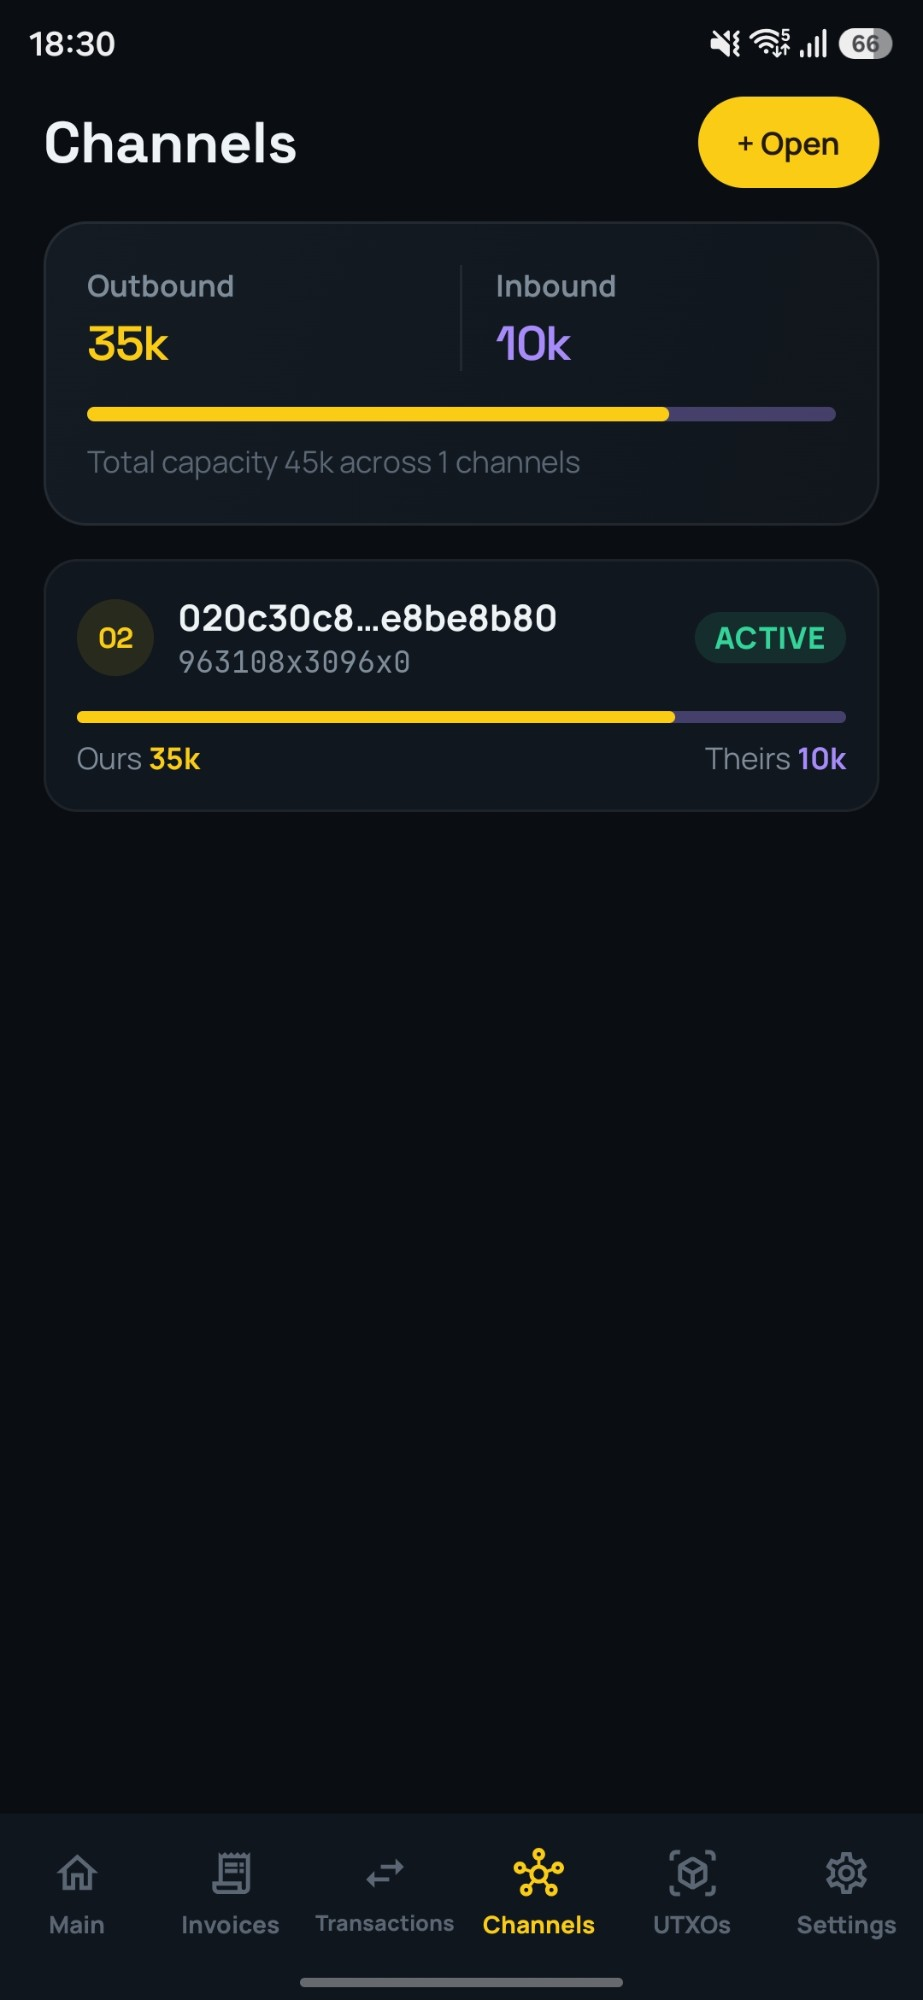
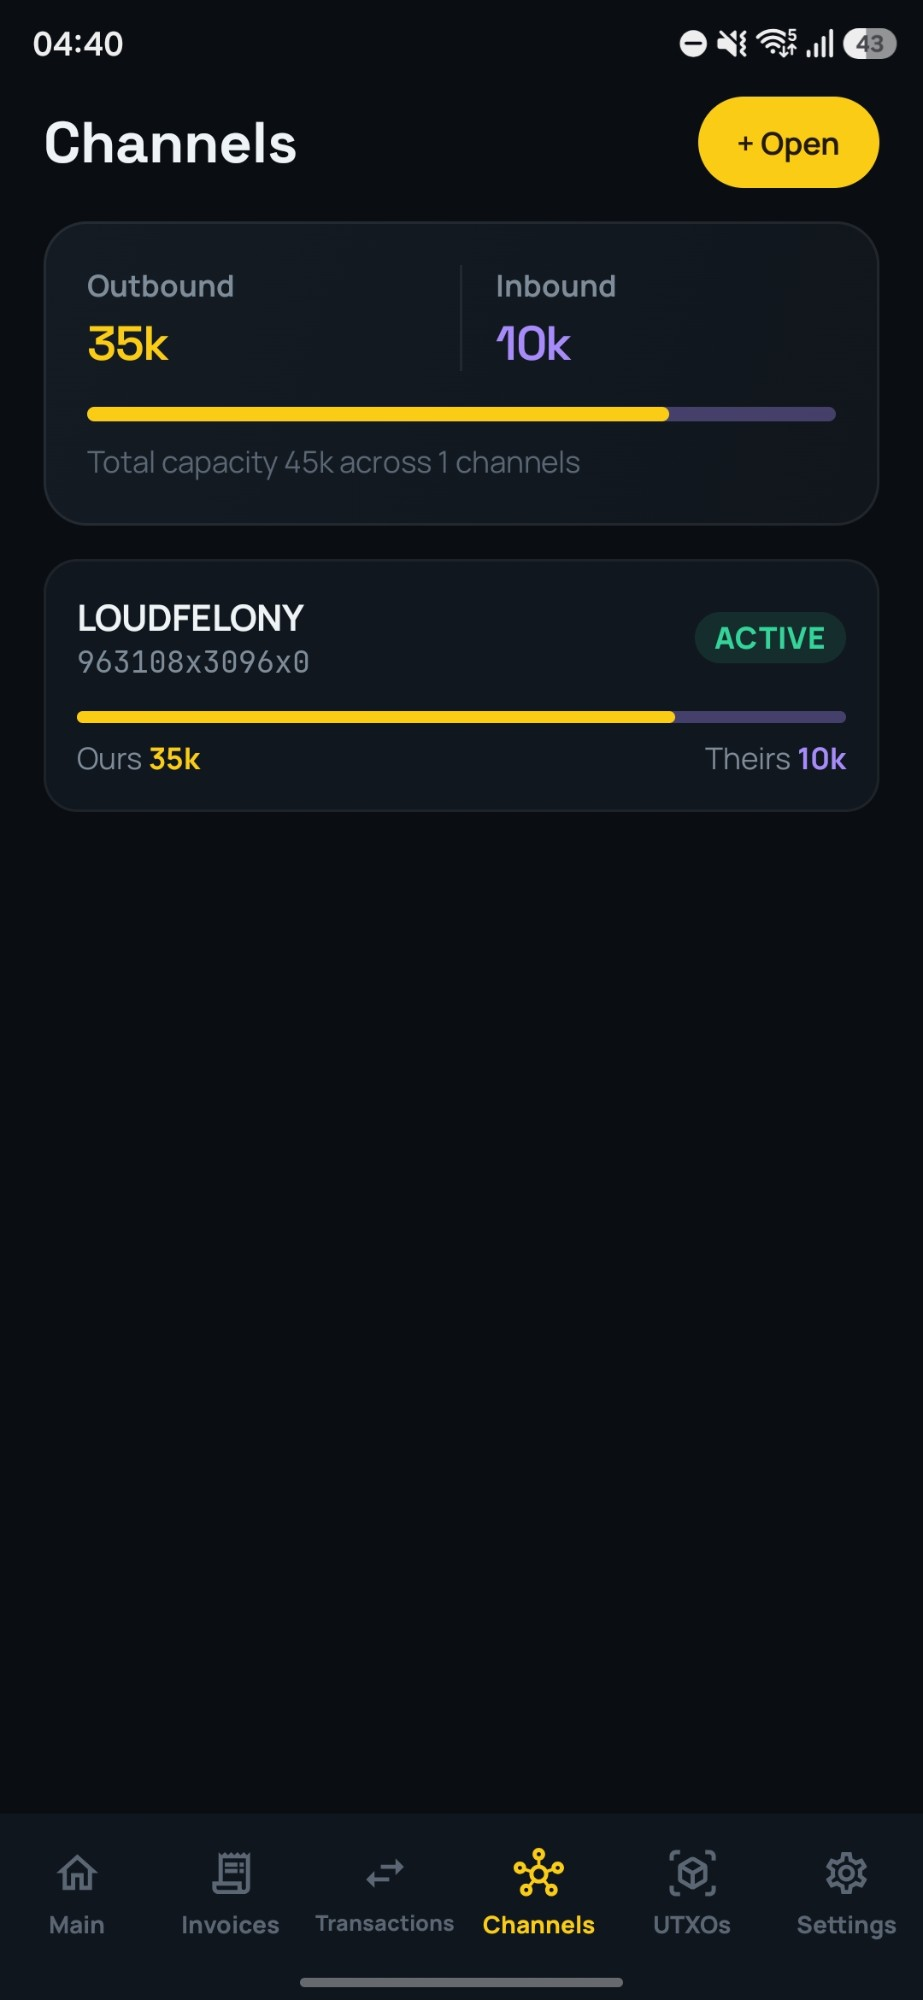
Fixed: amount precision in payments, updated readme screens

Changed region(s): [[0.091, 0.279, 0.6067, 0.341], [0.7281, 0.0, 0.9707, 0.031], [0.0303, 0.0, 0.1517, 0.031]]

diff --git a/app/src/main/java/app/light/wallet/ui/sheets/SheetHost.kt b/app/src/main/java/app/light/wallet/ui/sheets/SheetHost.kt
@@ -62,7 +62,9 @@ import app.light.wallet.ui.DisplayUnit
 import app.light.wallet.ui.copyToClipboard
 import app.light.wallet.ui.expiresIn
 import app.light.wallet.ui.formatAmount
+import app.light.wallet.ui.filterAmountInput
 import app.light.wallet.ui.formatAmountFull
+import app.light.wallet.ui.parseAmountToMsat
 import app.light.wallet.ui.formatUnixTime
 import app.light.wallet.ui.qrBitmap
 import app.light.wallet.ui.shortId
@@ -192,7 +194,7 @@ private fun DesignField(
         placeholder = { Text(placeholder, color = Tokens.Faint) },
         minLines = lines,
         maxLines = if (lines > 1) lines + 1 else 1,
-        keyboardOptions = if (numeric) KeyboardOptions(keyboardType = KeyboardType.Number) else KeyboardOptions.Default,
+        keyboardOptions = if (numeric) KeyboardOptions(keyboardType = KeyboardType.Decimal) else KeyboardOptions.Default,
         textStyle = when {
             big -> TextStyle(fontFamily = SpaceGrotesk, fontWeight = FontWeight.SemiBold, fontSize = 20.sp, color = Tokens.Text)
             mono -> TextStyle(fontFamily = MonoFont, fontSize = 12.sp, color = Tokens.TextMid, lineHeight = 18.sp)
@@ -302,8 +304,8 @@ private fun SendChainSheet(repository: WalletRepository, onClose: () -> Unit) {
     }
     FieldLabel("Destination address")
     DesignField(addr, { addr = it }, "bc1q…", mono = true)
-    FieldLabel("Amount (sats)", topPadding = 12)
-    DesignField(amount, { amount = it.filter { c -> c.isDigit() }; sendAll = false }, "0", numeric = true, big = true)
+    FieldLabel("Amount (${unit.label})", topPadding = 12)
+    DesignField(amount, { amount = filterAmountInput(it, unit); sendAll = false }, "0", numeric = true, big = true)
     run {
         val funds by repository.funds.collectAsState()
         val available = funds?.let { it.onchainConfirmedMsat / 1000uL } ?: 0uL
@@ -317,7 +319,7 @@ private fun SendChainSheet(repository: WalletRepository, onClose: () -> Unit) {
                 "Send max",
                 style = MaterialTheme.typography.labelMedium.copy(fontSize = 11.5.sp),
                 color = Tokens.Accent,
-                modifier = Modifier.noRipple { sendAll = true; amount = available.toString() },
+                modifier = Modifier.noRipple { sendAll = true; amount = formatAmount(available * 1000uL, unit).replace(" ", "") },
             )
         }
     }
@@ -344,7 +346,7 @@ private fun SendChainSheet(repository: WalletRepository, onClose: () -> Unit) {
     PillButton(
         if (busy) "Broadcasting…" else "Send on-chain",
         modifier = Modifier.fillMaxWidth().padding(top = 18.dp),
-        enabled = !busy && addr.isNotBlank() && amount.toULongOrNull() != null,
+        enabled = !busy && addr.isNotBlank() && parseAmountToMsat(amount, unit) != null,
     ) {
         busy = true; error = null
         scope.launch {
@@ -352,7 +354,7 @@ private fun SendChainSheet(repository: WalletRepository, onClose: () -> Unit) {
                 repository.requireNode().withdraw(
                     WithdrawParams(
                         destination = addr.trim(),
-                        amountSat = if (sendAll) 0uL else amount.toULong(),
+                        amountSat = if (sendAll) 0uL else (parseAmountToMsat(amount, unit) ?: 0uL) / 1000uL,
                         all = sendAll, minconf = null, feerate = feerate,
                     ),
                 )
@@ -366,6 +368,7 @@ private fun SendChainSheet(repository: WalletRepository, onClose: () -> Unit) {
 
 @Composable
 private fun NewInvoiceSheet(repository: WalletRepository, onOpenSheet: (WalletSheet) -> Unit, onClose: () -> Unit) {
+    val unit = DisplayUnit.from(repository.displayUnit)
     val scope = rememberCoroutineScope()
     var anyAmount by remember { mutableStateOf(false) }
     var amount by remember { mutableStateOf("") }
@@ -387,7 +390,7 @@ private fun NewInvoiceSheet(repository: WalletRepository, onOpenSheet: (WalletSh
     SheetTitle("Create invoice", onClose)
     Row(verticalAlignment = Alignment.CenterVertically) {
         Text(
-            "Amount (sats)",
+            "Amount (${unit.label})",
             style = MaterialTheme.typography.bodySmall.copy(fontSize = 11.5.sp, fontWeight = FontWeight.Bold),
             color = Tokens.Dim, modifier = Modifier.weight(1f),
         )
@@ -406,7 +409,15 @@ private fun NewInvoiceSheet(repository: WalletRepository, onOpenSheet: (WalletSh
     }
     if (!anyAmount) {
         Box(Modifier.padding(top = 8.dp)) {
-            DesignField(amount, { amount = it.filter { c -> c.isDigit() } }, "25 000", numeric = true, big = true)
+            DesignField(
+                amount, { amount = filterAmountInput(it, unit) },
+                when (unit) {
+                    DisplayUnit.SAT -> "25 000"
+                    DisplayUnit.MSAT -> "25 000 000"
+                    DisplayUnit.BTC -> "0.00025"
+                },
+                numeric = true, big = true,
+            )
         }
     }
     FieldLabel("Description", topPadding = 12)
@@ -514,7 +525,7 @@ private fun NewInvoiceSheet(repository: WalletRepository, onOpenSheet: (WalletSh
     PillButton(
         if (busy) "Creating…" else "Create invoice",
         modifier = Modifier.fillMaxWidth().padding(top = 18.dp),
-        enabled = !busy && (anyAmount || amount.toULongOrNull() != null),
+        enabled = !busy && (anyAmount || parseAmountToMsat(amount, unit) != null),
     ) {
         busy = true; error = null
         scope.launch {
@@ -523,7 +534,7 @@ private fun NewInvoiceSheet(repository: WalletRepository, onOpenSheet: (WalletSh
             runCatching {
                 repository.createInvoice(
                     CreateInvoiceParams(
-                        amountMsat = if (anyAmount) null else amount.toULong() * 1000uL,
+                        amountMsat = if (anyAmount) null else parseAmountToMsat(amount, unit),
                         description = desc,
                         label = customLabel.ifBlank { "lightapp-${System.currentTimeMillis()}" },
                         expiry = if (expiry == 0uL) null else expiry,
@@ -642,8 +653,8 @@ private fun PaySheet(repository: WalletRepository, prefill: String, onPaymentSta
             DecRow("Expires", expiresIn(d.createdAt?.let { c -> d.expiry?.let { e -> c + e } }), orange = true)
         }
         if (d.amountMsat == null) {
-            FieldLabel("Amount to pay (sats)", topPadding = 12)
-            DesignField(amountOverride, { amountOverride = it.filter { c -> c.isDigit() } }, "0", numeric = true, big = true)
+            FieldLabel("Amount to pay (${unit.label})", topPadding = 12)
+            DesignField(amountOverride, { amountOverride = filterAmountInput(it, unit) }, "0", numeric = true, big = true)
         }
     }
 
@@ -656,8 +667,8 @@ private fun PaySheet(repository: WalletRepository, prefill: String, onPaymentSta
     if (showAdv) {
         Row(modifier = Modifier.padding(top = 8.dp), horizontalArrangement = Arrangement.spacedBy(10.dp)) {
             Column(modifier = Modifier.weight(1f), verticalArrangement = Arrangement.spacedBy(6.dp)) {
-                Text("maxfee (sats)", style = MaterialTheme.typography.bodySmall.copy(fontSize = 10.5.sp, fontWeight = FontWeight.Bold), color = Tokens.Faint)
-                DesignField(maxFee, { maxFee = it.filter { c -> c.isDigit() } }, "auto", numeric = true)
+                Text("maxfee (${unit.label})", style = MaterialTheme.typography.bodySmall.copy(fontSize = 10.5.sp, fontWeight = FontWeight.Bold), color = Tokens.Faint)
+                DesignField(maxFee, { maxFee = filterAmountInput(it, unit) }, "auto", numeric = true)
             }
             Column(modifier = Modifier.weight(1f), verticalArrangement = Arrangement.spacedBy(6.dp)) {
                 Text("retry_for (s)", style = MaterialTheme.typography.bodySmall.copy(fontSize = 10.5.sp, fontWeight = FontWeight.Bold), color = Tokens.Faint)
@@ -696,8 +707,8 @@ private fun PaySheet(repository: WalletRepository, prefill: String, onPaymentSta
     }
     error?.let { Text(it, color = Tokens.Red, style = MaterialTheme.typography.bodySmall, modifier = Modifier.padding(top = 10.dp)) }
 
-    val amountKnown = decoded?.amountMsat != null || amountOverride.toULongOrNull() != null
-    val payMsat = decoded?.amountMsat ?: amountOverride.toULongOrNull()?.times(1000uL)
+    val amountKnown = decoded?.amountMsat != null || parseAmountToMsat(amountOverride, unit) != null
+    val payMsat = decoded?.amountMsat ?: parseAmountToMsat(amountOverride, unit)
     // Never pay until decode of the *current* invoice text has finished.
     val payEnabled = inv.isNotBlank() && decoded != null && !decoding && amountKnown
     Row(
@@ -715,8 +726,8 @@ private fun PaySheet(repository: WalletRepository, prefill: String, onPaymentSta
                     PayCommand.Xpay(
                         XpayParams(
                             invstring = inv.trim(),
-                            amountMsat = if (decoded?.amountMsat == null) amountOverride.toULongOrNull()?.times(1000uL) else null,
-                            maxfeeMsat = maxFee.toULongOrNull()?.times(1000uL),
+                            amountMsat = if (decoded?.amountMsat == null) parseAmountToMsat(amountOverride, unit) else null,
+                            maxfeeMsat = parseAmountToMsat(maxFee, unit),
                             layers = layers.split(",").map { it.trim() }.filter { it.isNotEmpty() },
                             retryFor = retryFor.toUIntOrNull(),
                             partialMsat = partial.toULongOrNull(),
@@ -766,6 +777,7 @@ private fun DecRow(k: String, v: String, mono: Boolean = false, orange: Boolean 
 
 @Composable
 private fun OpenChannelSheet(repository: WalletRepository, onClose: () -> Unit) {
+    val unit = DisplayUnit.from(repository.displayUnit)
     val scope = rememberCoroutineScope()
     var peer by remember { mutableStateOf("") }
     var amount by remember { mutableStateOf("") }
@@ -787,8 +799,16 @@ private fun OpenChannelSheet(repository: WalletRepository, onClose: () -> Unit) 
     DesignField(peer, { peer = it }, "nodeid@host:port", mono = true, lines = 2)
     Row(modifier = Modifier.padding(top = 12.dp), horizontalArrangement = Arrangement.spacedBy(10.dp)) {
         Column(modifier = Modifier.weight(1f), verticalArrangement = Arrangement.spacedBy(6.dp)) {
-            Text("Amount (sats)", style = MaterialTheme.typography.bodySmall.copy(fontSize = 11.5.sp, fontWeight = FontWeight.Bold), color = Tokens.Dim)
-            DesignField(amount, { amount = it.filter { c -> c.isDigit() } }, "1 000 000", numeric = true, big = true)
+            Text("Amount (${unit.label})", style = MaterialTheme.typography.bodySmall.copy(fontSize = 11.5.sp, fontWeight = FontWeight.Bold), color = Tokens.Dim)
+            DesignField(
+                amount, { amount = filterAmountInput(it, unit) },
+                when (unit) {
+                    DisplayUnit.SAT -> "1 000 000"
+                    DisplayUnit.MSAT -> "1 000 000 000"
+                    DisplayUnit.BTC -> "0.01"
+                },
+                numeric = true, big = true,
+            )
         }
         Column(modifier = Modifier.width(110.dp), verticalArrangement = Arrangement.spacedBy(6.dp)) {
             Text("Min conf", style = MaterialTheme.typography.bodySmall.copy(fontSize = 11.5.sp, fontWeight = FontWeight.Bold), color = Tokens.Dim)
@@ -810,7 +830,7 @@ private fun OpenChannelSheet(repository: WalletRepository, onClose: () -> Unit) 
     PillButton(
         if (busy) "Opening…" else "Connect & fund channel",
         modifier = Modifier.fillMaxWidth().padding(top = 18.dp),
-        enabled = !busy && peer.isNotBlank() && amount.toULongOrNull() != null,
+        enabled = !busy && peer.isNotBlank() && parseAmountToMsat(amount, unit) != null,
     ) {
         busy = true; error = null
         scope.launch {
@@ -825,7 +845,7 @@ private fun OpenChannelSheet(repository: WalletRepository, onClose: () -> Unit) 
                 } else peer.trim()
                 node.openChannel(
                     OpenChannelParams(
-                        peerId = nodeId, amountSat = amount.toULong(), all = false,
+                        peerId = nodeId, amountSat = (parseAmountToMsat(amount, unit) ?: 0uL) / 1000uL, all = false,
                         feerate = feerate.ifBlank { null }, announce = announce, pushMsat = null,
                         closeTo = null, minconf = minconf.toUIntOrNull(), mindepth = null, reserveMsat = null,
                     ),

diff --git a/app/src/main/java/app/light/wallet/ui/Format.kt b/app/src/main/java/app/light/wallet/ui/Format.kt
@@ -35,6 +35,34 @@ fun formatMsatAsSat(msat: ULong?): String =
     if (msat == null) "—"
     else String.format(Locale.US, "%,d sat", (msat / 1000uL).toLong()).replace(',', ' ')
 
+/** Parse an amount the user typed in their display unit into msat. */
+fun parseAmountToMsat(input: String, unit: DisplayUnit): ULong? {
+    val t = input.trim().replace(" ", "")
+    if (t.isEmpty()) return null
+    return when (unit) {
+        DisplayUnit.SAT -> t.toULongOrNull()?.let { it * 1000uL }
+        DisplayUnit.MSAT -> t.toULongOrNull()
+        DisplayUnit.BTC -> {
+            val d = t.toBigDecimalOrNull() ?: return null
+            if (d.signum() < 0) return null
+            val msat = d.movePointRight(11) // 1 BTC = 1e11 msat
+            if (msat.stripTrailingZeros().scale() > 0) return null // finer than 1 msat
+            val bi = msat.toBigInteger()
+            if (bi.bitLength() > 63) null else bi.toLong().toULong()
+        }
+    }
+}
+
+/** Input filter for an amount field: digits, plus a single dot in BTC mode. */
+fun filterAmountInput(s: String, unit: DisplayUnit): String =
+    if (unit == DisplayUnit.BTC) {
+        val c = s.filter { it.isDigit() || it == '.' }
+        val i = c.indexOf('.')
+        if (i == -1) c else c.substring(0, i + 1) + c.substring(i + 1).replace(".", "")
+    } else {
+        s.filter { it.isDigit() }
+    }
+
 /**
  * Full-precision amount in the user's display unit, label included.
  * Sub-sat precision is never silently dropped: a 312 msat fee shows as
